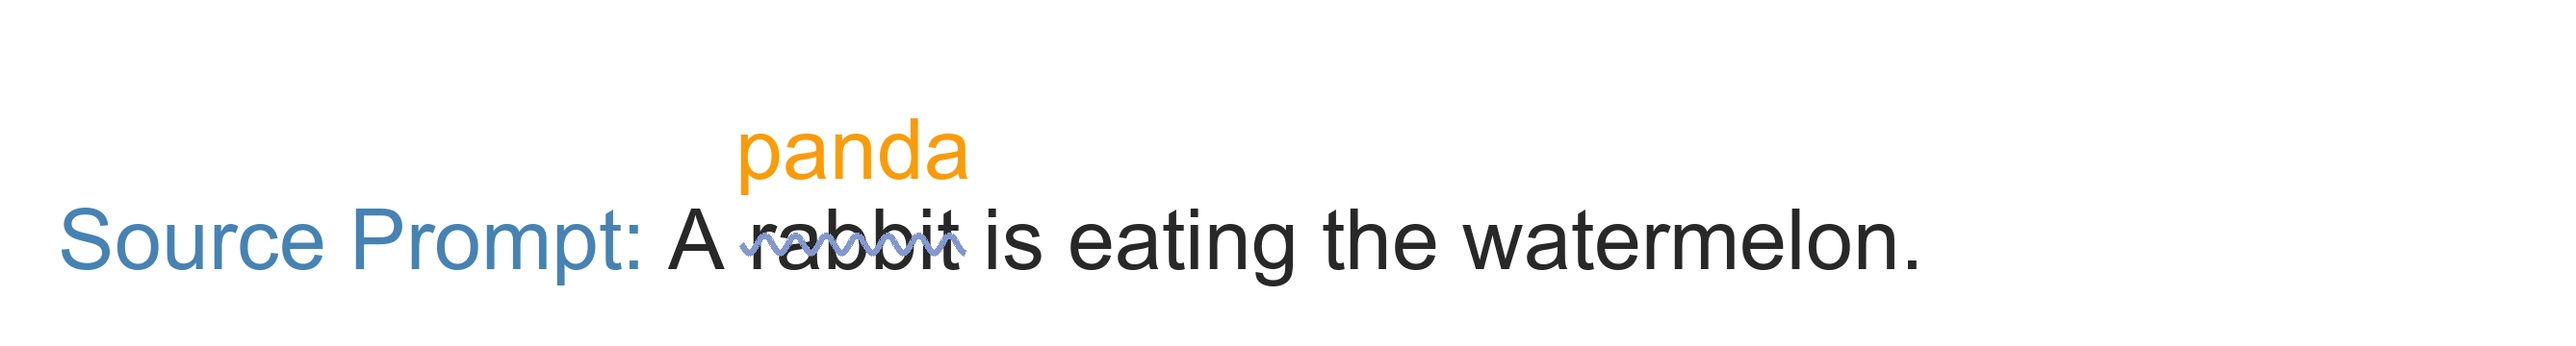
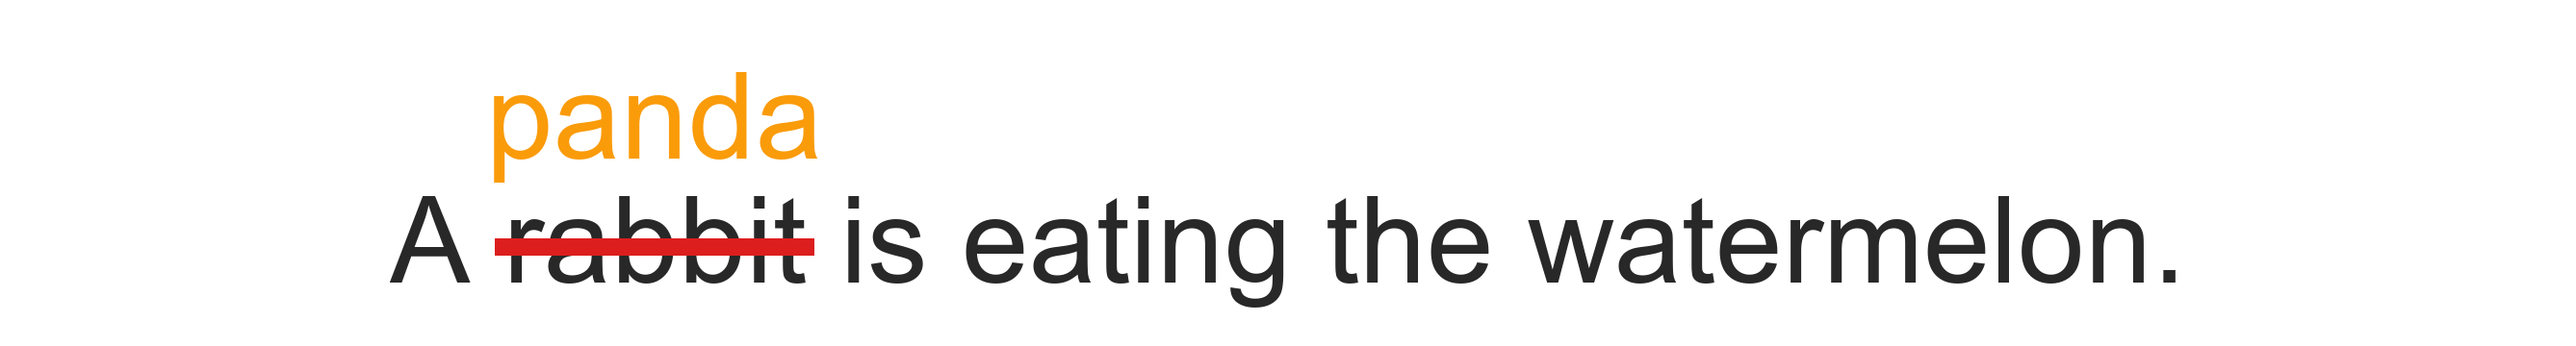
Simplify prompt strips: uniform 125px font, centered, red bold strike for replacements, no underline for additions; rename Demo Video section

Changed region(s): [[0.0, 0.2139, 0.8685, 0.8861]]

diff --git a/index.html b/index.html
@@ -267,7 +267,7 @@
   <!-- 演示视频:GIF 上下拼接(上:源视频,下:梵高风格编辑结果);有正式视频后可换回下方注释的 YouTube/Bilibili -->
   <section class="section" id="video">
     <div class="container is-max-desktop">
-      <h2 class="title is-3 has-text-centered">Demo Video</h2>
+      <h2 class="title is-3 has-text-centered">Demo Long Video</h2>
       <div class="columns is-centered has-text-centered">
         <div class="column is-two-thirds">
           <div class="publication-video" style="height:auto; padding-bottom:0;">
